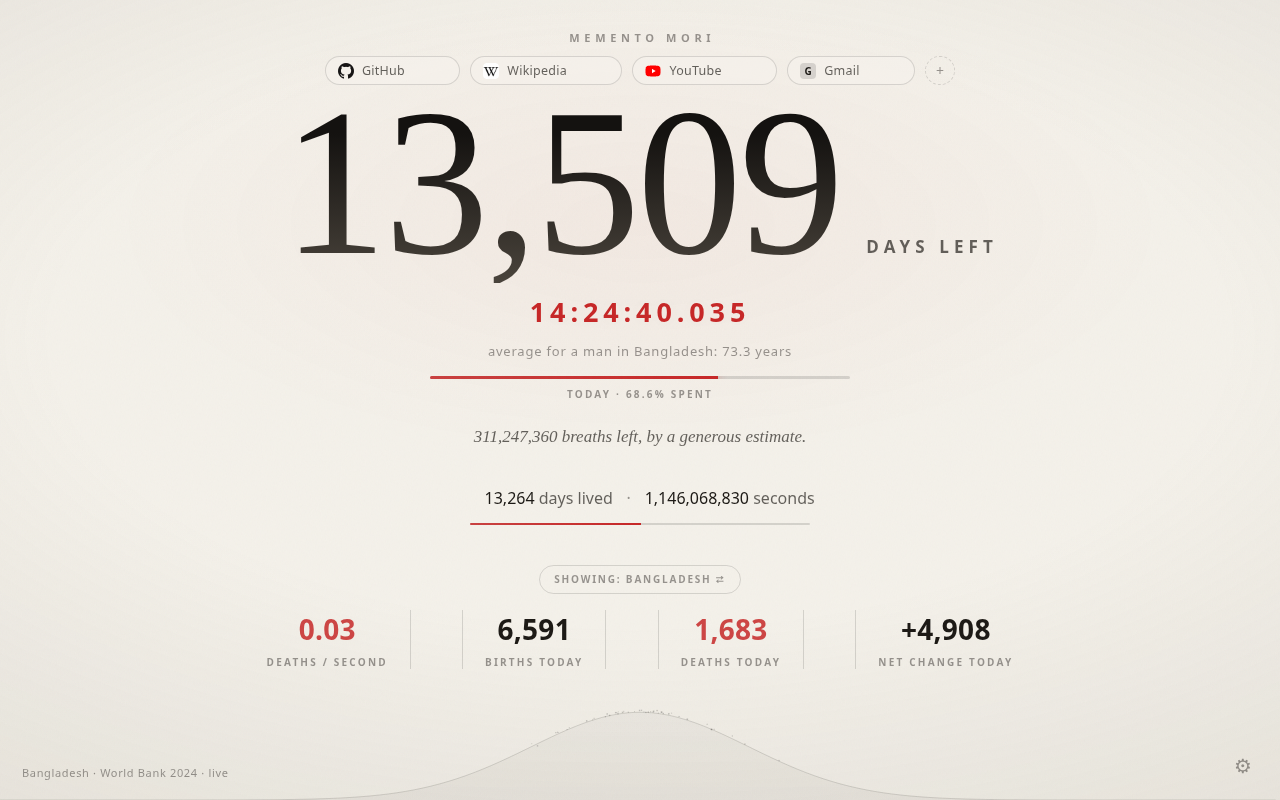
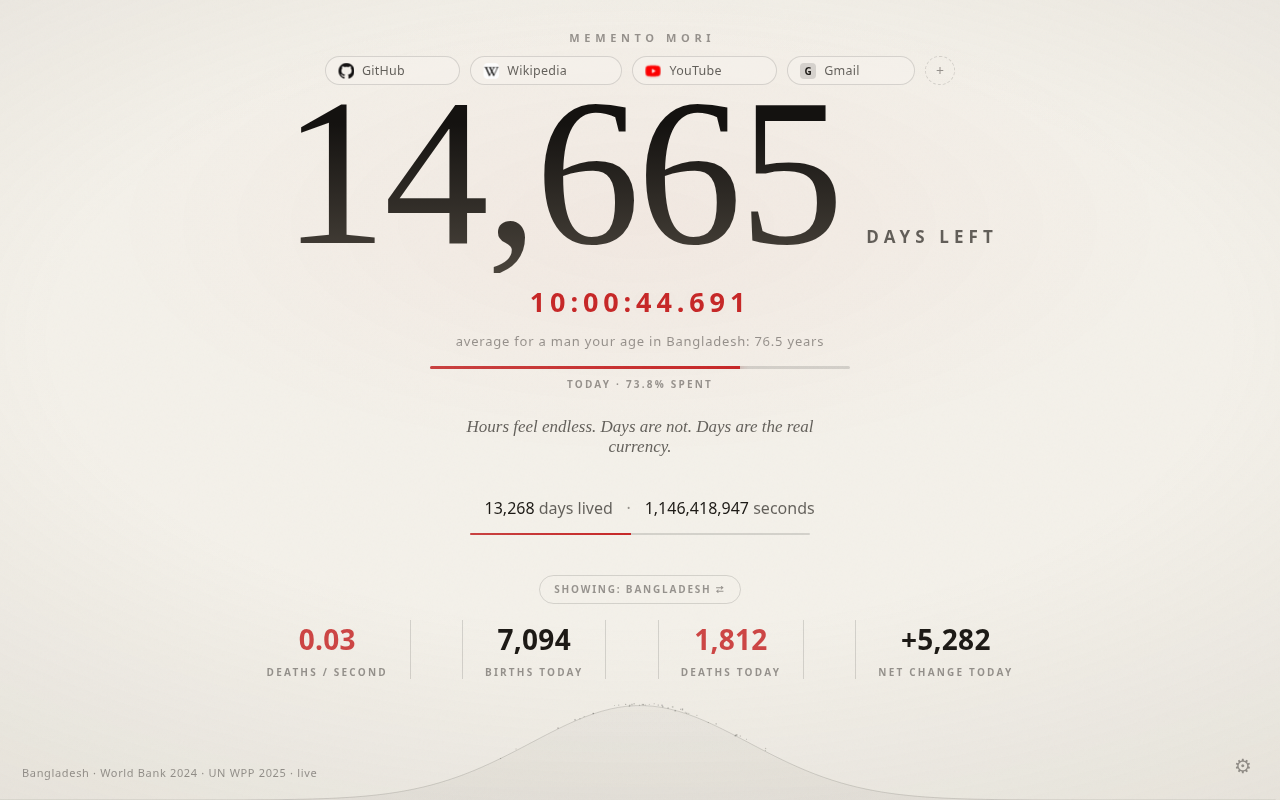
Regenerate every product image from the real UI
The README gallery, the landing page's new-tab, world-live and og images,
and the social preview still showed the pre-1.5 "average for a man in …"
wording at-birth figures. tools/screenshots.js (replacing store-shots.js)
now renders all of them, 16 files in one run, from newtab.html.

Marketing images (landing page, store) inject the site's typefaces —
Gelasio for Georgia, Inter for text — plus sample favicons through
tools/store/decorate.js, matching how the originals looked; README images
stay plain renders. The store's setup card now sizes to its image.

diff --git a/tools/screenshots.js b/tools/screenshots.js
@@ -1,0 +1,83 @@
+/*
+ * Regenerate every product image from the real UI, so none can drift from it
+ * (needs google-chrome or CHROME=…, Node 22+). Run: node tools/screenshots.js
+ *   docs/screenshots/   README gallery — plain renders, this machine's fonts
+ *   site/assets/        landing page — the site's fonts (tools/store/decorate.js)
+ *   store/listing/      Chrome Web Store screenshots (tools/store/listing.html)
+ * A name filter regenerates a subset: node tools/screenshots.js store
+ */
+'use strict';
+const { execFileSync } = require('child_process');
+const path = require('path');
+
+const root = path.join(__dirname, '..');
+const file = (p) => 'file://' + path.join(root, p);
+const only = process.argv[2];
+const shot = (out, args) => {
+  if (only && out.indexOf(only) < 0) return;
+  execFileSync('node', [path.join(__dirname, 'shot.js'), '--out', path.join(root, out)].concat(args), { stdio: 'inherit' });
+};
+
+// Sample profiles: README images follow a Bangladesh user, marketing a US one.
+const BD = 'newtab.html?birthday=1990-06-15&sex=male&country=BGD';
+const US = 'newtab.html?birthday=1991-04-12&sex=male&country=USA&theme=paper';
+const FIVE = '&shortcuts=GitHub|github.com,Wikipedia|wikipedia.org,YouTube|youtube.com,Reddit|reddit.com,Figma|figma.com';
+
+// Page-side script: inject decorate.js (favicons, optionally the site's
+// fonts), then run `then` — all awaited before the shot.
+const decorate = (fonts, then) => '(async () => {' +
+  "await new Promise((r) => { const s = document.createElement('script');" +
+  's.src = ' + JSON.stringify(file('tools/store/decorate.js')) + '; s.onload = r; document.head.appendChild(s); });' +
+  'await window.MementoDecorate(document, { fonts: ' + fonts + ' });' + (then || '') + 'return true; })()';
+
+const page = (out, q, opts) => shot(out, [
+  '--url', file(q), '--width', String(opts.w || 1280), '--height', String(opts.h || 800),
+  '--scale', String(opts.scale || 1), '--eval', decorate(!!opts.fonts, opts.then),
+].concat(opts.clip ? ['--clip', opts.clip] : []));
+
+// ---------- README gallery ----------
+
+page('docs/screenshots/hero.png', BD + '&theme=midnight&ambient=nebula', {});
+page('docs/screenshots/world-deaths.png', BD + '&theme=midnight&ambient=tide&hero=deaths-world', {});
+page('docs/screenshots/paper.png', BD + '&theme=paper&ambient=hourglass' +
+  '&shortcuts=GitHub|github.com,Wikipedia|wikipedia.org,YouTube|youtube.com,Gmail|mail.google.com', {});
+page('docs/screenshots/ember.png', BD + '&theme=dawn&ambient=embers&hero=deaths-country', {});
+page('docs/screenshots/first-run.png', 'newtab.html', {});
+page('docs/screenshots/social-preview.png', BD + '&theme=midnight&ambient=hourglass&daybar=0', { h: 640 });
+
+// ---------- landing page ----------
+
+page('site/assets/newtab.webp', US + '&ambient=none' + FIVE, { fonts: true, scale: 1.5625 });
+page('site/assets/world-live.webp', US + '&ambient=pulse&hero=deaths-world&scope=world', { fonts: true, scale: 1.25 });
+
+// The settings modal, opened over the saved profile so every field is filled.
+const lastSection = "const t = document.querySelectorAll('.modal .section-title'); const sec = t[t.length - 1];";
+
+// Landing page + store shot 3: the "Make it yours" half of the modal.
+page('site/assets/customize.webp', US + '&ambient=hourglass', {
+  fonts: true, h: 1400, scale: 2,
+  then: "document.getElementById('gear').click();" + lastSection +
+    "sec.style.borderTopColor = 'transparent'; document.querySelector('.modal .fineprint').style.visibility = 'hidden';",
+  clip: '(() => {' + lastSection + "const m = document.querySelector('.modal').getBoundingClientRect();" +
+    "const h = sec.getBoundingClientRect(); const s = document.getElementById('save').getBoundingClientRect();" +
+    'const y = h.top + 15 - 28; return { x: m.left, y: y, width: m.width, height: s.bottom + 28 - y }; })()',
+});
+
+// Store shot 5: the "About you" half, as a first-run card (no close button).
+page('tools/store/setup.webp', US + '&ambient=none', {
+  fonts: true, h: 1400, scale: 2,
+  then: "document.getElementById('gear').click(); document.getElementById('modal-close').style.display = 'none';" +
+    "Object.assign(document.querySelector('.modal').style, { borderRadius: '0', border: '0' });" + // the card rounds it
+    lastSection + "let n = sec; while (n && n.id !== 'save') { const next = n.nextElementSibling; n.style.display = 'none'; n = next; }" +
+    "document.getElementById('save-hint').style.display = 'none';",
+  clip: "(() => { const r = document.querySelector('.modal').getBoundingClientRect(); return { x: r.left, y: r.top, width: r.width, height: r.height }; })()",
+});
+
+// ---------- store listing (+ the landing page's social card, = shot 1) ----------
+
+const listing = (out, n) => shot(out, ['--url', file('tools/store/listing.html?n=' + n), '--wait', '1500',
+  '--eval', 'new Promise((r) => { const t = setInterval(() => { if (window.ready) { clearInterval(t); r(true); } }, 50); })']);
+['01-countdown', '02-world-live', '03-customize', '04-shortcuts', '05-private-setup'].forEach((name, i) => {
+  listing('store/listing/' + name + '-1280x800.png', i + 1);
+});
+listing('site/assets/og.jpg', 1);

diff --git a/tools/store/listing.html b/tools/store/listing.html
@@ -4,8 +4,8 @@
   ?n=1..5 picks the layout. Shots 1, 2 and 4 frame the real newtab.html in
   an iframe; 3 and 5 show crops of the real settings modal
   (site/assets/customize.webp, tools/store/setup.webp). Shortcut favicons
-  come from tools/store/icons/ because headless Chrome has no favicon cache.
-  Regenerate with: node tools/store-shots.js
+  and the site's fonts are injected by tools/store/decorate.js.
+  Regenerate with: node tools/screenshots.js
 -->
 <html lang="en">
 <head>
@@ -57,6 +57,7 @@
 </style>
 </head>
 <body>
+<script src="decorate.js"></script>
 <script>
   var n = Number(new URLSearchParams(location.search).get('n')) || 1;
   var NEWTAB = '../../newtab.html';
@@ -119,22 +120,19 @@
          ['Open data, works offline', 'UN life tables built in; World Bank rates cached for a week'],
          ['Approximate by design', 'A warning sign, not a diagnosis'],
        ]) + '</div>' +
-       '<div class="card shadow" style="left:690px;top:76px;width:460px;height:647px;background-image:url(setup.webp)"></div>',
+       '<div class="card shadow" style="left:690px;top:50%;transform:translateY(-50%);width:460px;overflow:hidden">' +
+       '<img src="setup.webp" alt="" style="display:block;width:100%"></div>',
   }[n];
   document.write(html);
 
-  // Inside the framed new tab: real favicons (headless Chrome has no favicon
-  // cache) and, for shot 4, the add-shortcut popover mid-entry.
+  // Inside the framed new tab: favicons and the site's fonts (decorate.js)
+  // and, for shot 4, the add-shortcut popover mid-entry.
   var frame = document.getElementById('tab');
   window.ready = !frame;
   if (frame) frame.addEventListener('load', function () {
     var w = frame.contentWindow, d = frame.contentDocument;
-    setTimeout(function () {
-      d.querySelectorAll('.sc-chip').forEach(function (chip) {
-        var name = chip.querySelector('.sc-name').textContent.toLowerCase();
-        var ico = chip.querySelector('.sc-ico');
-        ico.src = new URL('icons/' + name + '.png', location.href).href;
-      });
+    setTimeout(async function () {
+      await window.MementoDecorate(d, { fonts: true });
       if (n === 4) {
         d.querySelector('.sc-add').click();
         d.getElementById('sc-name').value = 'Hacker News';

diff --git a/tools/store/decorate.js b/tools/store/decorate.js
@@ -1,0 +1,38 @@
+/*
+ * Injected into a rendered newtab.html for product shots (by
+ * tools/screenshots.js and tools/store/listing.html):
+ * - favicons: headless Chrome has no favicon cache, so shortcut chips get
+ *   the icons in tools/store/icons/ (letter tile when there is none);
+ * - fonts: the landing page's typefaces in place of the render machine's
+ *   system fonts — Gelasio (Georgia's metrics) for numerals and Inter for
+ *   text, so marketing images look like the app on a Mac or Windows PC.
+ */
+(function () {
+var SELF = document.currentScript ? document.currentScript.src : location.href;
+
+window.MementoDecorate = function (doc, opts) {
+  var here = function (p) { return new URL(p, SELF).href; };
+
+  if (opts && opts.fonts) {
+    var style = doc.createElement('style');
+    style.textContent =
+      "@font-face { font-family: Georgia; src: url('" + here('../../site/fonts/gelasio.woff2') + "') format('woff2'); font-weight: 400 700; }\n" +
+      "@font-face { font-family: 'Memento Inter'; src: url('" + here('../../site/fonts/inter.woff2') + "') format('woff2'); font-weight: 100 900; }\n" +
+      "body { font-family: 'Memento Inter', sans-serif; }";
+    doc.head.appendChild(style);
+  }
+
+  var known = ['github', 'wikipedia', 'youtube', 'reddit', 'figma'];
+  doc.querySelectorAll('.sc-chip').forEach(function (chip) {
+    var name = chip.querySelector('.sc-name').textContent.toLowerCase();
+    if (known.indexOf(name) >= 0) chip.querySelector('.sc-ico').src = here('icons/' + name + '.png');
+  });
+
+  // Declared faces load lazily; ask for them so the shot waits on real glyphs.
+  if (!(opts && opts.fonts) || !doc.fonts) return true;
+  return Promise.all([
+    doc.fonts.load('400 40px Georgia'), doc.fonts.load('italic 400 20px Georgia'),
+    doc.fonts.load("400 16px 'Memento Inter'"), doc.fonts.load("700 16px 'Memento Inter'"),
+  ]).then(function () { return doc.fonts.ready; }).then(function () { return true; });
+};
+})();

diff --git a/site/index.html b/site/index.html
@@ -59,7 +59,7 @@ FINISH: unreviewed and undocumented is unfinished; this build ends with the fini
 
       <figure class="window hero-shot">
         <div class="window-bar" aria-hidden="true"><span class="dots"><i></i><i></i><i></i></span><span class="tab"><img src="/assets/logo-192.png" alt="" width="14" height="14">New Tab</span></div>
-        <img src="/assets/newtab.webp" width="2000" height="1250" alt="The Memento new tab in the light Paper theme: 14,978 days left in large serif numerals, a red live timer, a bar showing 65% of today spent, days lived, and today's births and deaths in the United States.">
+        <img src="/assets/newtab.webp" width="2000" height="1250" alt="The Memento new tab in the light Paper theme: 15,974 days left in large serif numerals, a red live timer, the age-adjusted life expectancy it is based on, a bar showing 74% of today spent, days lived, and today's births and deaths in the United States.">
       </figure>
     </section>
 
@@ -102,7 +102,7 @@ FINISH: unreviewed and undocumented is unfinished; this build ends with the fini
         <p class="aside">Three questions to start: your birthday, sex and country. That’s it.</p>
       </div>
       <figure class="sheet">
-        <img src="/assets/customize.webp" width="920" height="1208" loading="lazy" alt="Memento's settings: theme swatches for Snow, Paper, Dawn, Linen, Midnight and System; ambient choices Nebula, Hourglass, Stars, Rising, Embers, Pulse and None; big number, bottom numbers and day bar options; background image upload.">
+        <img src="/assets/customize.webp" width="920" height="1172" loading="lazy" alt="Memento's settings: theme swatches for Snow, Paper, Dawn, Linen, Midnight and System; ambient choices Nebula, Hourglass, Stars, Rising, Embers, Pulse and None; big number, bottom numbers and day bar options; background image upload.">
       </figure>
     </section>
 

diff --git a/README.md b/README.md
@@ -16,7 +16,7 @@ live birth/death rate for your country or the whole world.
 ![Data: World Bank](https://img.shields.io/badge/data-World%20Bank%20Open%20Data-0b6fb6)
 ![Privacy: local only](https://img.shields.io/badge/privacy-stays%20on%20device-555)
 
-<img src="docs/screenshots/hero.png" width="860" alt="Memento new tab in the Midnight theme with the Nebula ambient: 13,510 days left, a live hh:mm:ss.mmm countdown, today's day bar, days lived, and Bangladesh's births and deaths today">
+<img src="docs/screenshots/hero.png" width="860" alt="Memento new tab in the Midnight theme with the Nebula ambient: 14,665 days left, a live hh:mm:ss.mmm countdown, the age-adjusted average behind it, today's day bar, days lived, and Bangladesh's births and deaths today">
 
 </div>
 
@@ -42,7 +42,7 @@ themeable, with your own background image.
 
 ## What you get
 
-- **Hero countdown (ticks backward):** `13,510 days left` — computed from your
+- **Hero countdown (ticks backward):** `14,665 days left` — computed from your
   birthday plus your life expectancy (see below) — with a live `hh:mm:ss.mmm`
   sub-counter (the milliseconds drain at display refresh) and a daily one-liner
   ("≈ 37 summers left. Start now.").
@@ -55,7 +55,7 @@ themeable, with your own background image.
   at-birth figure) and says so right under the countdown ("average for a man
   your age in Bangladesh: 76.5 years"); or set your own estimate ("I'll live to
   80") and the countdown switches to it.
-- **Your life so far (ticks up):** `13,263 days lived · 1,145,971,852 seconds`,
+- **Your life so far (ticks up):** `13,268 days lived · 1,146,418,943 seconds`,
   with a thin progress bar for the share of your expected life already spent.
 - **Real-time death-rate row:** deaths/second, births today, deaths today, and
   net population change today — for **your country or the whole world** (your
@@ -200,15 +200,19 @@ google-chrome --headless=new --disable-gpu --screenshot=/tmp/shot.png \
 
 ### Regenerating screenshots
 
-The store screenshots (`store/listing/`) and the landing page's settings image
-are rendered from the real UI, so they never drift from it:
+Every product image — the README gallery (`docs/screenshots/`), the landing
+page's images (`site/assets/`) and the store screenshots (`store/listing/`) — is
+rendered from the real UI, so none can drift from it:
 
 ```sh
-node tools/store-shots.js   # needs google-chrome (or CHROME=/path/to/chrome), Node 22+
+node tools/screenshots.js         # all of them; needs google-chrome (or CHROME=…), Node 22+
+node tools/screenshots.js store   # only paths containing "store"
 ```
 
-Layouts live in `tools/store/listing.html`; `tools/shot.js` is the
-dependency-free headless-Chrome screenshotter behind it.
+README images use the render machine's fonts; landing-page and store images get
+the site's typefaces (Gelasio, Inter) and sample favicons via
+`tools/store/decorate.js`. Store layouts live in `tools/store/listing.html`;
+`tools/shot.js` is the dependency-free headless-Chrome screenshotter behind it.
 
 URL params: `birthday`, `sex`, `country`, `theme` (snow|paper|dawn|linen|midnight|system),
 `ambient` (nebula|hourglass|stars|tide|embers|pulse|none),

diff --git a/store/listing/LISTING.md b/store/listing/LISTING.md
@@ -1,7 +1,7 @@
 # Chrome Web Store listing — Memento 1.5.0
 
 Copy-paste values for the developer dashboard, tab by tab. The images are in
-this folder (regenerate them with `node tools/store-shots.js`).
+this folder (regenerate them with `node tools/screenshots.js`).
 
 ---
 
